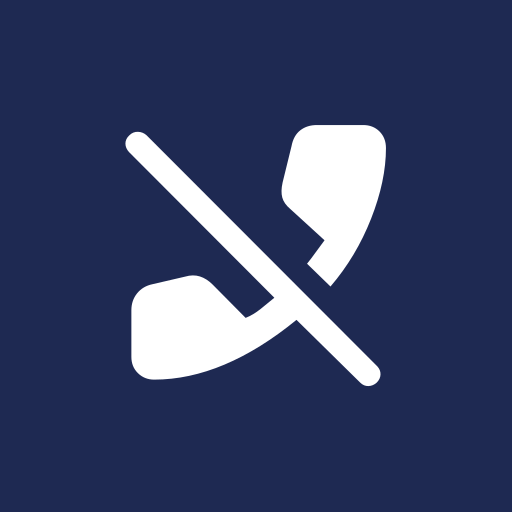
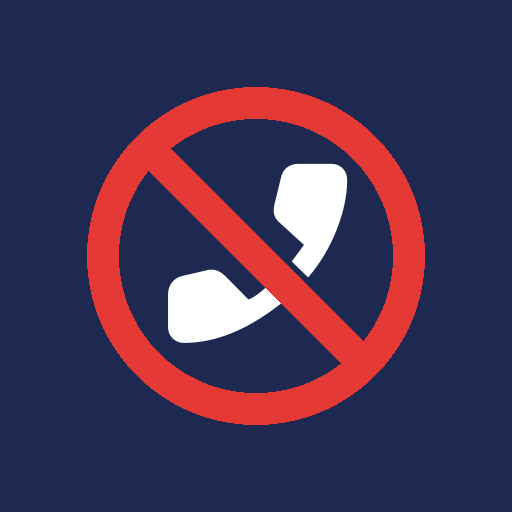
Add prohibition-circle badge, redesign blocked-numbers list, add iOS SMS filter
Icon: overlaid the classic red circle-slash prohibition sign on the
Material phone_disabled glyph -- reads instantly as "no calls" now
(user: "sovrapposto un cerchio rosso sbarrato"). Sized as a fraction
of the whole badge so it scales consistently between iOS (no masking,
larger canvas fraction) and Android's adaptive-icon safe zone.

Blocked-numbers screen, both platforms:
- Removed the "add number" field entirely -- adding stays exclusively
  on the main screen's Blocca/Blocca e segnala buttons, per user's
  reasoning that duplicating it here made no sense
- That space is now a search field instead, filtering by substring
  (covers both "starts with" and "contains a full number" in one
  simple check)
- Added a Tutti/Personali segmented filter
- The former swipe-to-delete (iOS) / already-visible (Android) removal
  action is now a consistently visible "Sblocca" button at the end of
  each personal-entry row on both platforms -- user pointed out swipe
  gestures aren't discoverable and asked for a persistent button,
  restricted to entries the user blocked themselves

iOS SMS/iMessage filtering: new NoSpamMessageFilter app-extension
target implementing ILMessageFilterExtension -- Apple's sanctioned,
non-default-Messages-app extension point for classifying messages from
unknown senders entirely on-device, reusing SpamNumberStore's existing
shared-App-Group data. Added a new SpamNumberStore.isSpamNumber(_:)
[…]

Changed region(s): [[0.1562, 0.1562, 0.8438, 0.8438]]

diff --git a/android/app/src/main/java/com/konrad/nospam/BlockedNumbersScreen.kt b/android/app/src/main/java/com/konrad/nospam/BlockedNumbersScreen.kt
@@ -8,10 +8,12 @@ import androidx.compose.foundation.layout.fillMaxWidth
 import androidx.compose.foundation.layout.padding
 import androidx.compose.foundation.lazy.LazyColumn
 import androidx.compose.foundation.lazy.items
-import androidx.compose.material3.Button
 import androidx.compose.material3.HorizontalDivider
 import androidx.compose.material3.MaterialTheme
 import androidx.compose.material3.OutlinedTextField
+import androidx.compose.material3.SegmentedButton
+import androidx.compose.material3.SegmentedButtonDefaults
+import androidx.compose.material3.SingleChoiceSegmentedButtonRow
 import androidx.compose.material3.Text
 import androidx.compose.material3.TextButton
 import androidx.compose.runtime.Composable
@@ -21,40 +23,48 @@ import androidx.compose.runtime.mutableStateOf
 import androidx.compose.runtime.remember
 import androidx.compose.runtime.rememberCoroutineScope
 import androidx.compose.runtime.setValue
+import androidx.compose.ui.Alignment
 import androidx.compose.ui.Modifier
 import androidx.compose.ui.platform.LocalContext
 import androidx.compose.ui.unit.dp
 import kotlinx.coroutines.launch
+
+private enum class SourceFilter(val label: String) {
+    ALL("Tutti"),
+    PERSONAL("Personali"),
+}
 
 @Composable
 fun BlockedNumbersScreen(modifier: Modifier = Modifier) {
     val context = LocalContext.current
     val scope = rememberCoroutineScope()
     val dao = remember { AppDatabase.getInstance(context).spamNumberDao() }
-    val entries by dao.observeAll().collectAsState(initial = emptyList())
+    val allEntries by dao.observeAll().collectAsState(initial = emptyList())
 
-    var newNumber by remember { mutableStateOf("") }
+    var searchText by remember { mutableStateOf("") }
+    var sourceFilter by remember { mutableStateOf(SourceFilter.ALL) }
+
+    val entries = allEntries
+        .filter { sourceFilter == SourceFilter.ALL || it.source == NumberSource.PERSONAL }
+        .filter { searchText.isBlank() || it.phoneNumber.contains(searchText) }
 
     Column(modifier = modifier.fillMaxSize().padding(24.dp)) {
-        Row(verticalAlignment = androidx.compose.ui.Alignment.CenterVertically) {
-            OutlinedTextField(
-                value = newNumber,
-                onValueChange = { newNumber = it },
-                label = { Text("Aggiungi numero") },
-                modifier = Modifier.weight(1f),
-            )
-            Button(
-                onClick = {
-                    val number = newNumber.trim()
-                    if (number.isNotEmpty()) {
-                        scope.launch {
-                            PersonalBlocklist.add(context, number)
-                            newNumber = ""
-                        }
-                    }
-                },
-            ) {
-                Text("Aggiungi")
+        OutlinedTextField(
+            value = searchText,
+            onValueChange = { searchText = it },
+            label = { Text("Cerca numero (es. 0691 o +3933...)") },
+            modifier = Modifier.fillMaxWidth(),
+        )
+
+        SingleChoiceSegmentedButtonRow(modifier = Modifier.fillMaxWidth().padding(top = 12.dp)) {
+            SourceFilter.entries.forEachIndexed { index, filter ->
+                SegmentedButton(
+                    selected = sourceFilter == filter,
+                    onClick = { sourceFilter = filter },
+                    shape = SegmentedButtonDefaults.itemShape(index = index, count = SourceFilter.entries.size),
+                ) {
+                    Text(filter.label)
+                }
             }
         }
 
@@ -68,7 +78,7 @@ fun BlockedNumbersScreen(modifier: Modifier = Modifier) {
             items(entries, key = { it.phoneNumber }) { entry ->
                 Row(
                     modifier = Modifier.fillMaxWidth().padding(vertical = 8.dp),
-                    verticalAlignment = androidx.compose.ui.Alignment.CenterVertically,
+                    verticalAlignment = Alignment.CenterVertically,
                 ) {
                     Column(modifier = Modifier.weight(1f)) {
                         Text(entry.phoneNumber)
@@ -85,7 +95,7 @@ fun BlockedNumbersScreen(modifier: Modifier = Modifier) {
                         TextButton(onClick = {
                             scope.launch { PersonalBlocklist.remove(context, entry.phoneNumber) }
                         }) {
-                            Text("Rimuovi")
+                            Text("Sblocca")
                         }
                     }
                 }

diff --git a/ios/NoSpam/BlockedNumbersView.swift b/ios/NoSpam/BlockedNumbersView.swift
@@ -1,32 +1,41 @@
 import SwiftUI
 
+private enum SourceFilter: String, CaseIterable {
+    case all = "Tutti"
+    case personal = "Personali"
+}
+
 struct BlockedNumbersView: View {
-    @State private var entries: [BlockedNumberDisplay] = []
-    @State private var newNumber: String = ""
-    @State private var errorMessage: String?
+    @State private var allEntries: [BlockedNumberDisplay] = []
+    @State private var searchText: String = ""
+    @State private var sourceFilter: SourceFilter = .all
+
+    private var filteredEntries: [BlockedNumberDisplay] {
+        allEntries
+            .filter { sourceFilter == .all || $0.source == .personal }
+            .filter { searchText.isEmpty || $0.number.contains(searchText) }
+    }
 
     var body: some View {
         List {
             Section {
-                HStack {
-                    TextField("Aggiungi numero (es. +393331234567)", text: $newNumber)
-                        .keyboardType(.phonePad)
-                    Button("Aggiungi", action: addPersonalNumber)
-                        .disabled(newNumber.isEmpty)
+                TextField("Cerca numero (es. 0691 o +3933...)", text: $searchText)
+                    .keyboardType(.phonePad)
+
+                Picker("Filtro", selection: $sourceFilter) {
+                    ForEach(SourceFilter.allCases, id: \.self) { filter in
+                        Text(filter.rawValue).tag(filter)
+                    }
                 }
-                if let errorMessage {
-                    Text(errorMessage)
-                        .font(.footnote)
-                        .foregroundStyle(.red)
-                }
+                .pickerStyle(.segmented)
             }
 
-            Section("Numeri bloccati (\(entries.count))") {
-                if entries.isEmpty {
-                    Text("Nessun numero bloccato al momento.")
+            Section("Numeri bloccati (\(filteredEntries.count))") {
+                if filteredEntries.isEmpty {
+                    Text("Nessun numero trovato.")
                         .foregroundStyle(.secondary)
                 }
-                ForEach(entries) { entry in
+                ForEach(filteredEntries) { entry in
                     HStack {
                         VStack(alignment: .leading) {
                             Text(entry.number)
@@ -35,12 +44,12 @@ struct BlockedNumbersView: View {
                                 .foregroundStyle(.secondary)
                         }
                         Spacer()
-                    }
-                    .swipeActions {
                         if entry.source == .personal {
-                            Button("Rimuovi", role: .destructive) {
+                            Button("Sblocca") {
                                 deletePersonalEntry(entry)
                             }
+                            .buttonStyle(.bordered)
+                            .tint(.red)
                         }
                     }
                 }
@@ -51,23 +60,7 @@ struct BlockedNumbersView: View {
     }
 
     private func reload() {
-        entries = SpamNumberStore.allEntries()
-    }
-
-    private func addPersonalNumber() {
-        let trimmed = newNumber.trimmingCharacters(in: .whitespaces)
-        guard !trimmed.isEmpty else { return }
-        SpamNumberStore.addPersonalNumber(trimmed)
-        newNumber = ""
-        errorMessage = nil
-        reload()
-        CallDirectoryManager.reloadExtension { error in
-            if let error {
-                DispatchQueue.main.async {
-                    errorMessage = "Errore: \(error.localizedDescription)"
-                }
-            }
-        }
+        allEntries = SpamNumberStore.allEntries()
     }
 
     private func deletePersonalEntry(_ entry: BlockedNumberDisplay) {

diff --git a/ios/NoSpamMessageFilter/MessageFilterExtension.swift b/ios/NoSpamMessageFilter/MessageFilterExtension.swift
@@ -1,0 +1,22 @@
+import IdentityLookup
+
+/// Filtro SMS/iMessage: il sistema interpella questa estensione solo per
+/// messaggi da mittenti sconosciuti (non in rubrica), interamente offline,
+/// prima ancora che il messaggio venga mostrato all'utente.
+final class MessageFilterExtension: ILMessageFilterExtension {}
+
+extension MessageFilterExtension: ILMessageFilterQueryHandling {
+    func handle(
+        _ queryRequest: ILMessageFilterQueryRequest,
+        context: ILMessageFilterExtensionContext,
+        completion: @escaping (ILMessageFilterQueryResponse) -> Void
+    ) {
+        let response = ILMessageFilterQueryResponse()
+        if let sender = queryRequest.sender, SpamNumberStore.isSpamNumber(sender) {
+            response.action = .filter
+        } else {
+            response.action = .allow
+        }
+        completion(response)
+    }
+}

diff --git a/ios/NoSpam/SpamNumberStore.swift b/ios/NoSpam/SpamNumberStore.swift
@@ -94,4 +94,14 @@ enum SpamNumberStore {
         }
         return Array(Set(numbers)).sorted()
     }
+
+    /// Usato dall'estensione di filtro SMS/iMessage: confronta solo le cifre,
+    /// dato che il mittente riportato dal sistema potrebbe non includere il
+    /// prefisso "+".
+    static func isSpamNumber(_ rawNumber: String) -> Bool {
+        let digits = rawNumber.filter(\.isNumber)
+        guard !digits.isEmpty else { return false }
+        let allNumbers = communityEntries().map(\.number) + personalNumbers()
+        return allNumbers.contains { $0.filter(\.isNumber) == digits }
+    }
 }

diff --git a/ios/NoSpam/ContentView.swift b/ios/NoSpam/ContentView.swift
@@ -77,6 +77,14 @@ struct ContentView: View {
                     }
                 }
 
+                Text(
+                    "Per filtrare anche gli SMS spam, abilita NoSpam da " +
+                    "Impostazioni > Messaggi > Filtraggio SMS sconosciuti."
+                )
+                .font(.footnote)
+                .foregroundStyle(.secondary)
+                .multilineTextAlignment(.center)
+
                 Button(isSyncing ? "Aggiornamento..." : "Aggiorna database spam") {
                     syncDatabase()
                 }

diff --git a/design/generate_icon.py b/design/generate_icon.py
@@ -6,17 +6,19 @@ esporta in tutte le dimensioni richieste da iOS e Android.
 Uso: .venv/bin/python generate_icon.py
 """
 
+import math
 from pathlib import Path
 
-from PIL import Image
+from PIL import Image, ImageDraw
 from reportlab.graphics import renderPM
 from svglib.svglib import svg2rlg
 
 BACKGROUND_COLOR = (30, 41, 82, 255)  # blu/indaco scuro
 GLYPH_COLOR = "#FFFFFF"
+PROHIBIT_COLOR = (229, 57, 53, 255)  # rosso
 
 MASTER_SIZE = 1024
-GLYPH_SCALE = 0.62  # frazione della tela occupata dal glifo
+BADGE_SCALE = 0.66  # frazione della tela occupata dal cerchio di divieto
 
 ROOT = Path(__file__).parent
 SOURCE_SVG = ROOT / "assets" / "phone_disabled.svg"
@@ -50,11 +52,30 @@ def render_glyph(size: int) -> Image.Image:
     return glyph
 
 
-def compose(canvas_size: int, transparent_background: bool, glyph_scale: float = GLYPH_SCALE) -> Image.Image:
+def draw_prohibition_sign(draw: ImageDraw.ImageDraw, canvas_size: int, badge_scale: float) -> None:
+    center = canvas_size / 2
+    radius = canvas_size * badge_scale / 2
+    ring_width = radius * 0.19
+
+    bbox = [center - radius, center - radius, center + radius, center + radius]
+    draw.ellipse(bbox, outline=PROHIBIT_COLOR, width=int(ring_width))
+
+    angle = math.radians(45)
+    bar_len = radius - ring_width / 2
+    x1 = center - bar_len * math.cos(angle)
+    y1 = center - bar_len * math.sin(angle)
+    x2 = center + bar_len * math.cos(angle)
+    y2 = center + bar_len * math.sin(angle)
+    draw.line([x1, y1, x2, y2], fill=PROHIBIT_COLOR, width=int(ring_width))
+
+
+def compose(canvas_size: int, transparent_background: bool, badge_scale: float = BADGE_SCALE) -> Image.Image:
     background = (0, 0, 0, 0) if transparent_background else BACKGROUND_COLOR
     canvas = Image.new("RGBA", (canvas_size, canvas_size), background)
 
-    glyph_size = int(canvas_size * glyph_scale)
+    # Il glifo occupa la parte interna del cerchio (come nei segnali di
+    # divieto stradali: l'icona al centro e' piu' piccola dell'anello).
+    glyph_size = int(canvas_size * badge_scale * 0.66)
     glyph = render_glyph(glyph_size)
     # La renderPM esporta un canvas rettangolare con margini: ritagliamo al
     # contenuto non trasparente per poterlo centrare correttamente.
@@ -65,6 +86,9 @@ def compose(canvas_size: int, transparent_background: bool, glyph_scale: float =
 
     offset = ((canvas_size - glyph.width) // 2, (canvas_size - glyph.height) // 2)
     canvas.paste(glyph, offset, glyph)
+
+    draw = ImageDraw.Draw(canvas)
+    draw_prohibition_sign(draw, canvas_size, badge_scale)
     return canvas
 
 
@@ -114,14 +138,14 @@ def export_android() -> None:
         "mipmap-xxhdpi": 324,
         "mipmap-xxxhdpi": 432,
     }
-    # Il glifo deve stare nella "safe zone" (66dp su 108dp) per non essere
-    # tagliato dalla maschera adattiva del sistema (cerchio/squircle/ecc.).
-    safe_zone_scale = 0.42
+    # Il badge (cerchio + glifo) deve stare nella "safe zone" (66dp su
+    # 108dp) per non essere tagliato dalla maschera adattiva del sistema.
+    safe_zone_scale = 0.58
 
     for folder, canvas_size in densities.items():
         target_dir = ANDROID_RES_DIR / folder
         target_dir.mkdir(parents=True, exist_ok=True)
-        image = compose(canvas_size, transparent_background=True, glyph_scale=safe_zone_scale)
+        image = compose(canvas_size, transparent_background=True, badge_scale=safe_zone_scale)
         image.save(target_dir / "ic_launcher_foreground.png")
 
     values_dir = ANDROID_RES_DIR / "values"
